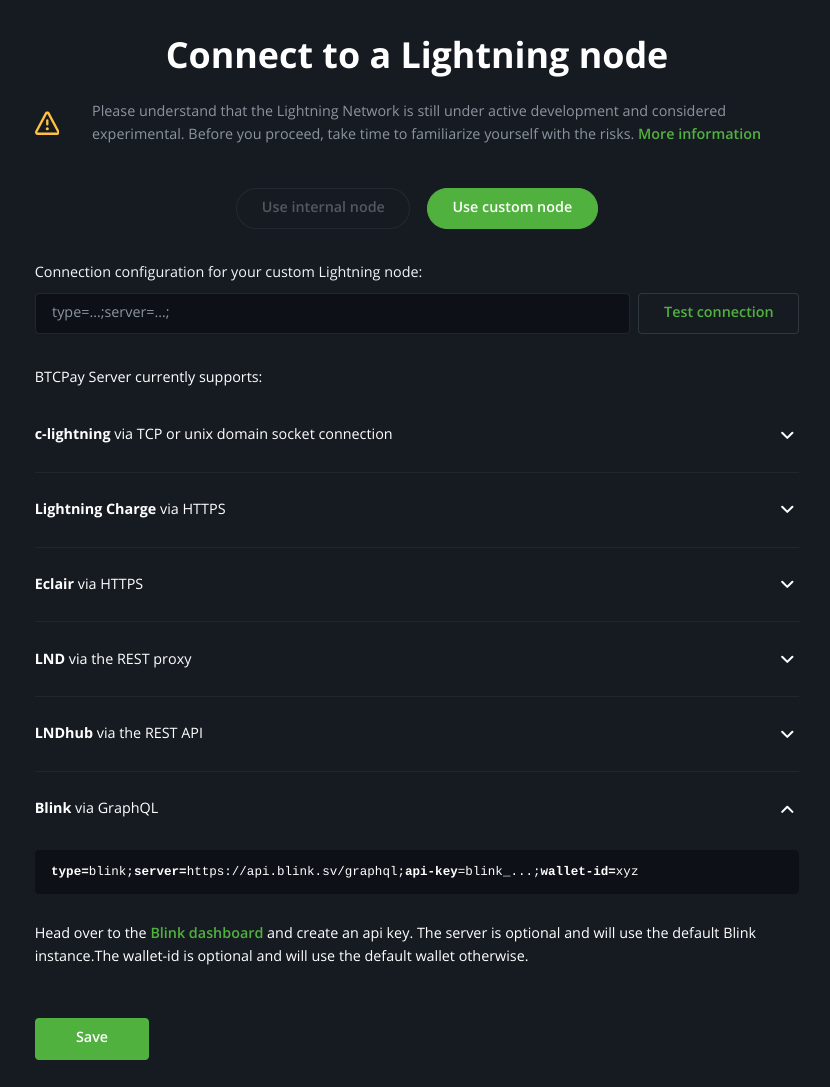
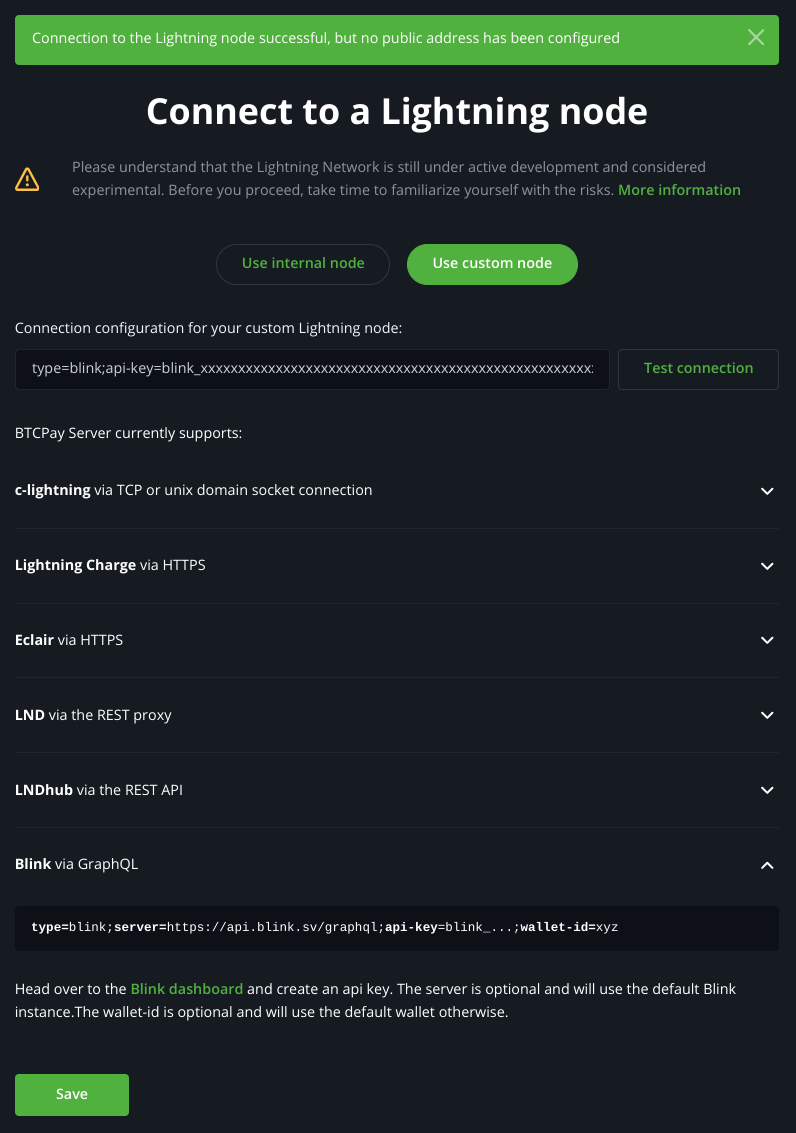
docs: extended instructions for the btcpay plugin

diff --git a/docs/examples/btcpayserver-plugin.md b/docs/examples/btcpayserver-plugin.md
@@ -9,22 +9,55 @@ Add the default wallet or select between BTC and Stablesats.
 
 Available in BTCPayServer v1.12.0 and later.
 
-## How to activate
-* select `Manage Plugins` in the left sidebar and  install the Blink plugin:
-![BTCPayServer plugin](../images/btcpayserver_plugin.png)
-  restart your BTCPayServer instance.
+## How to activate the plugin
+* login to the BTCPayServer instance as an admin user
+* select `Manage Plugins` in the left sidebar and install the Blink plugin:
 
-* the option to connect to Blink will be available under the `Lightning` -> `Settings` -> `Change connection` -> `Use custom node`
-![BTCPayServer plugin](../images/btcpayserver_plugin_connect.png)
+  ![BTCPayServer plugin](../images/btcpayserver_plugin.png)
 
-* the connection script is minimum:
+* restart the BTCPayServer instance.
+
+## How to connect
+
+* Create an API key on [dashboard.blink.sv](https://dashboard.blink.sv)
+  * log in with your registered email or a phone number
+  * select API Keys in the menu on the left
+  * create an API key with the + button
+  * for the most secure option choose the `Read Only` Scope - using a read only key will allow to create invoices and receive payments to your Blink account, but will not be allowed to send payments with the BTCPayServer plugin.
+
+    ![Read Only API key](../images/auth_api_key_read_only.png)
+
+  * copy the API key and save it securely as a password
+
+    ![API key](../images/auth_api_key.png)
+
+* the option to connect to their Blink will be available for logged in users under:
+  * in  case of a new store:<br />
+    `Set up a lightning node` → `Use custom node`
+  * in case of an existing store:<br />
+    `Lightning` → `Settings` → `Change connection` → `Use custom node`
+
+* the connection script for BTCPayServer is minimum:
   ```
   type=blink;api-key=blink_...
   ```
-In this case the Blink instance and the default wallet will be used.
+
+  ![BTCPayServer plugin](../images/btcpayserver_plugin_connect.png)
+
+* If adding only the API key the default wallet will be used on the Blink server (https://api.blink.sv/graphql).<br />
 Alternatively:
+  * can choose a walletID from the dashboard to use a let
   * can specify a custom server (for development or to use an other instance of the Galoy backend)
-  * can choose a wallet-id from the dashboard to use different from the default set in your Blink wallet
+
+* Click `Test connection` to verify the connection
+
+  The message:
+  ```
+  Connection to the Lightning node successful, but no public address has been configured
+  ```
+  is expected as the Blink plugin is connected to a Blink account, not a lightning node directly, but the connection is working.
+
+* Click `Save` to save the connection.
 
 ## Source code
 [github.com/Kukks/BTCPayServerPlugins/tree/master/Plugins/BTCPayServer.Plugins.Blink](https://github.com/Kukks/BTCPayServerPlugins/tree/master/Plugins/BTCPayServer.Plugins.Blink)
